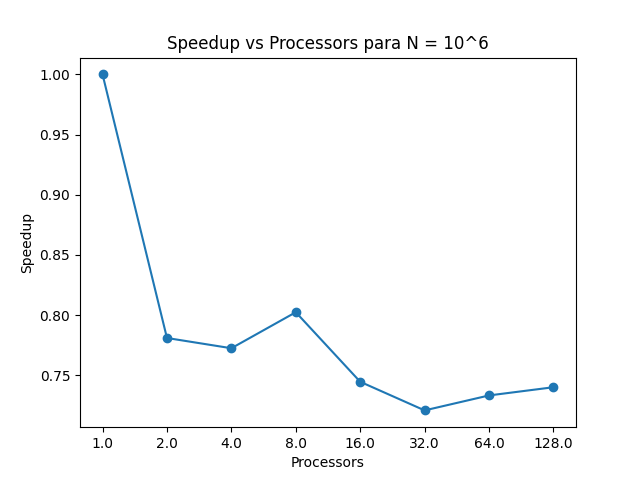
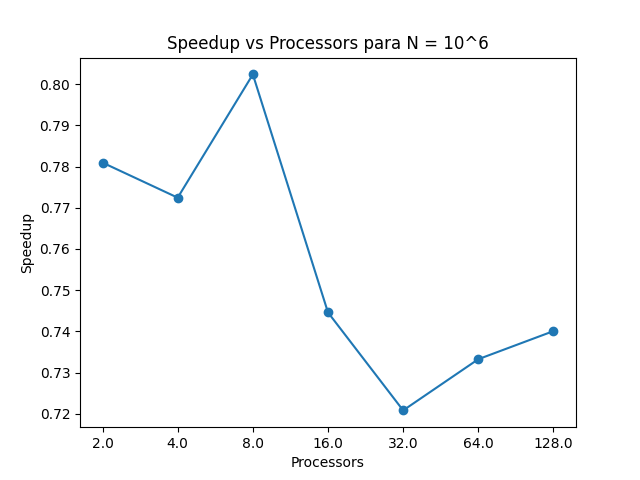
fix graphics

diff --git a/practica-04/P3/data_processor.py b/practica-04/P3/data_processor.py
@@ -39,7 +39,8 @@ plt.savefig('time.png')
 plt.clf()
 
 # Speedup
-s = [t[0]/t[i] for i in range(len(t))]
+s = [t[0]/t[i] for i in range(1,len(t))]
+P = P[1:]
 
 fig, ax = plt.subplots()
 ax.set_xscale('log', base=2)
